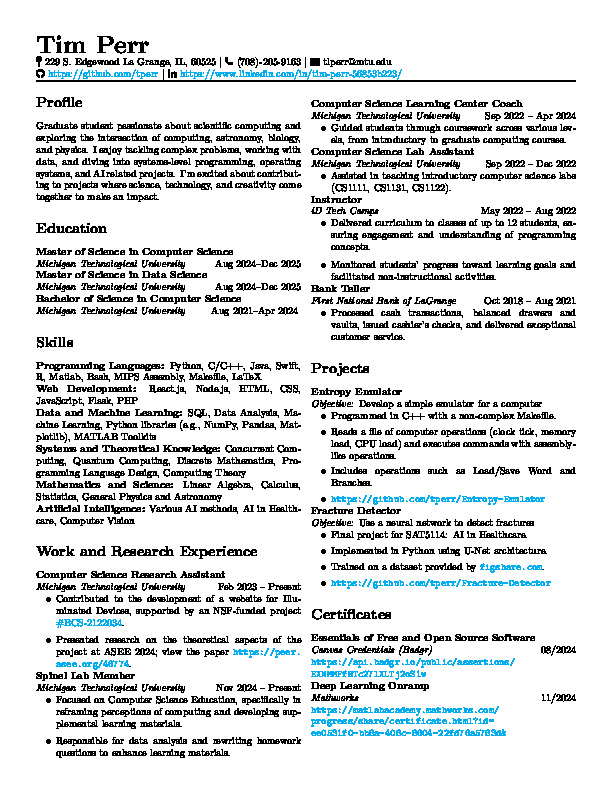
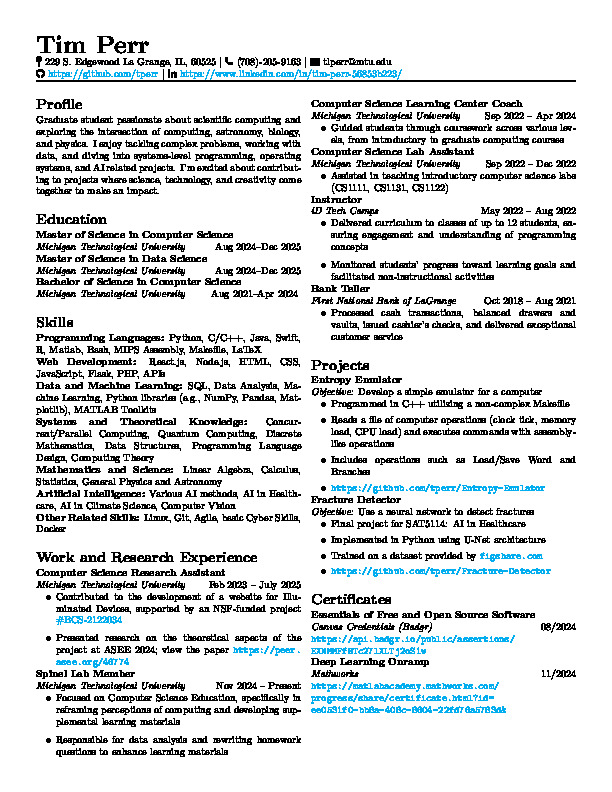
Removed periods from bullet points, small updates to my skills and work

Changed region(s): [[0.0621, 0.1212, 0.9624, 0.9697]]

diff --git a/work.tex b/work.tex
@@ -1,40 +1,40 @@
 \section*{Work and Research Experience}
 
 \textbf{Computer Science Research Assistant} \\
-\textit{Michigan Technological University} \hfill Feb 2023 – Present
+\textit{Michigan Technological University} \hfill Feb 2023 – July 2025 
 \begin{itemize}[itemsep=0.2em]
-    \item Contributed to the development of a website for Illuminated Devices, supported by an NSF-funded project \href{https://www.nsf.gov/awardsearch/showAward?AWD_ID=2122034}{\#BCS-2122034}.
-    \item Presented research on the theoretical aspects of the project at ASEE 2024; view the paper \url{https://peer.asee.org/46774}.
+    \item Contributed to the development of a website for Illuminated Devices, supported by an NSF-funded project \href{https://www.nsf.gov/awardsearch/showAward?AWD_ID=2122034}{\#BCS-2122034}
+    \item Presented research on the theoretical aspects of the project at ASEE 2024; view the paper \url{https://peer.asee.org/46774}
 \end{itemize}
 
 \textbf{Spinel Lab Member} \\
 \textit{Michigan Technological University} \hfill Nov 2024 – Present
 \begin{itemize}[itemsep=0.2em]
-    \item Focused on Computer Science Education, specifically in reframing perceptions of computing and developing supplemental learning materials.
-    \item Responsible for data analysis and rewriting homework questions to enhance learning materials.
+    \item Focused on Computer Science Education, specifically in reframing perceptions of computing and developing supplemental learning materials
+    \item Responsible for data analysis and rewriting homework questions to enhance learning materials
 \end{itemize}
 
 \textbf{Computer Science Learning Center Coach} \\
 \textit{Michigan Technological University} \hfill Sep 2022 – Apr 2024
 \begin{itemize}[itemsep=0.2em]
-    \item Guided students through coursework across various levels, from introductory to graduate computing courses.
+    \item Guided students through coursework across various levels, from introductory to graduate computing courses
 \end{itemize}
 
 \textbf{Computer Science Lab Assistant} \\
 \textit{Michigan Technological University} \hfill Sep 2022 – Dec 2022
 \begin{itemize}[itemsep=0.2em]
-    \item Assisted in teaching introductory computer science labs (CS1111, CS1131, CS1122).
+    \item Assisted in teaching introductory computer science labs (CS1111, CS1131, CS1122)
 \end{itemize}
 
 \textbf{Instructor} \\
 \textit{iD Tech Camps} \hfill May 2022 – Aug 2022
 \begin{itemize}[itemsep=0.2em]
-    \item Delivered curriculum to classes of up to 12 students, ensuring engagement and understanding of programming concepts.
-    \item Monitored students' progress toward learning goals and facilitated non-instructional activities.
+    \item Delivered curriculum to classes of up to 12 students, ensuring engagement and understanding of programming concepts
+    \item Monitored students' progress toward learning goals and facilitated non-instructional activities
 \end{itemize}
 
 \textbf{Bank Teller} \\
 \textit{First National Bank of LaGrange} \hfill Oct 2018 – Aug 2021
 \begin{itemize}[itemsep=0.2em]
-    \item Processed cash transactions, balanced drawers and vaults, issued cashier’s checks, and delivered exceptional customer service.
+    \item Processed cash transactions, balanced drawers and vaults, issued cashier’s checks, and delivered exceptional customer service
 \end{itemize}

diff --git a/projects.tex b/projects.tex
@@ -2,17 +2,17 @@
 \textbf{Entropy Emulator}\\
 \textit{Objective:} Develop a simple emulator for a computer
 \begin{itemize}
-    \item Programmed in C++ with a non-complex Makefile.
-    \item Reads a file of computer operations (clock tick, memory load, CPU load) and executes commands with assembly-like operations.
-    \item Includes operations such as Load/Save Word and Branches.
+    \item Programmed in C++ utilizing a non-complex Makefile
+    \item Reads a file of computer operations (clock tick, memory load, CPU load) and executes commands with assembly-like operations
+    \item Includes operations such as Load/Save Word and Branches
     \item \url{https://github.com/tperr/Entropy-Emulator}
 \end{itemize}
 
 \textbf{Fracture Detector}\\
 \textit{Objective:} Use a neural network to detect fractures
 \begin{itemize}
-    \item Final project for SAT5114: AI in Healthcare.
-    \item Implemented in Python using U-Net architecture.
-    \item Trained on a dataset provided by \url{figshare.com}.
+    \item Final project for SAT5114: AI in Healthcare
+    \item Implemented in Python using U-Net architecture
+    \item Trained on a dataset provided by \url{figshare.com}
     \item \url{https://github.com/tperr/Fracture-Detector}
 \end{itemize}

diff --git a/skills.tex b/skills.tex
@@ -1,12 +1,14 @@
 \section*{Skills}
 \textbf{Programming Languages:} Python, C/C++, Java, Swift, R, Matlab, Bash, MIPS Assembly, Makefile, LaTeX
 
-\textbf{Web Development:} React.js, Node.js, HTML, CSS, JavaScript, Flask, PHP
+\textbf{Web Development:} React.js, Node.js, HTML, CSS, JavaScript, Flask, PHP, APIs
 
 \textbf{Data and Machine Learning:} SQL, Data Analysis, Machine Learning, Python libraries (e.g., NumPy, Pandas, Matplotlib), MATLAB Toolkits
 
-\textbf{Systems and Theoretical Knowledge:} Concurrent Computing, Quantum Computing, Discrete Mathematics, Programming Language Design, Computing Theory
+\textbf{Systems and Theoretical Knowledge:} Concurrent/Parallel Computing, Quantum Computing, Discrete Mathematics, Data Structures, Programming Language Design, Computing Theory
 
 \textbf{Mathematics and Science:} Linear Algebra, Calculus, Statistics, General Physics and Astronomy
 
-\textbf{Artificial Intelligence:} Various AI methods, AI in Healthcare, Computer Vision
+\textbf{Artificial Intelligence:} Various AI methods, AI in Healthcare, AI in Climate Science, Computer Vision
+
+\textbf{Other Related Skills:} Linux, Git, Agile, basic Cyber Skills, Docker

diff --git a/resume.tex b/resume.tex
@@ -28,6 +28,8 @@
 \usepackage{enumitem}
 \setlist[itemize]{itemsep=0em, topsep=0em}
 
+\usepackage{titlesec}
+\titlespacing\section{0pt}{12pt plus 4pt minus 2pt}{0pt plus 2pt minus 2pt}
 
 % Document begins
 \begin{document}
